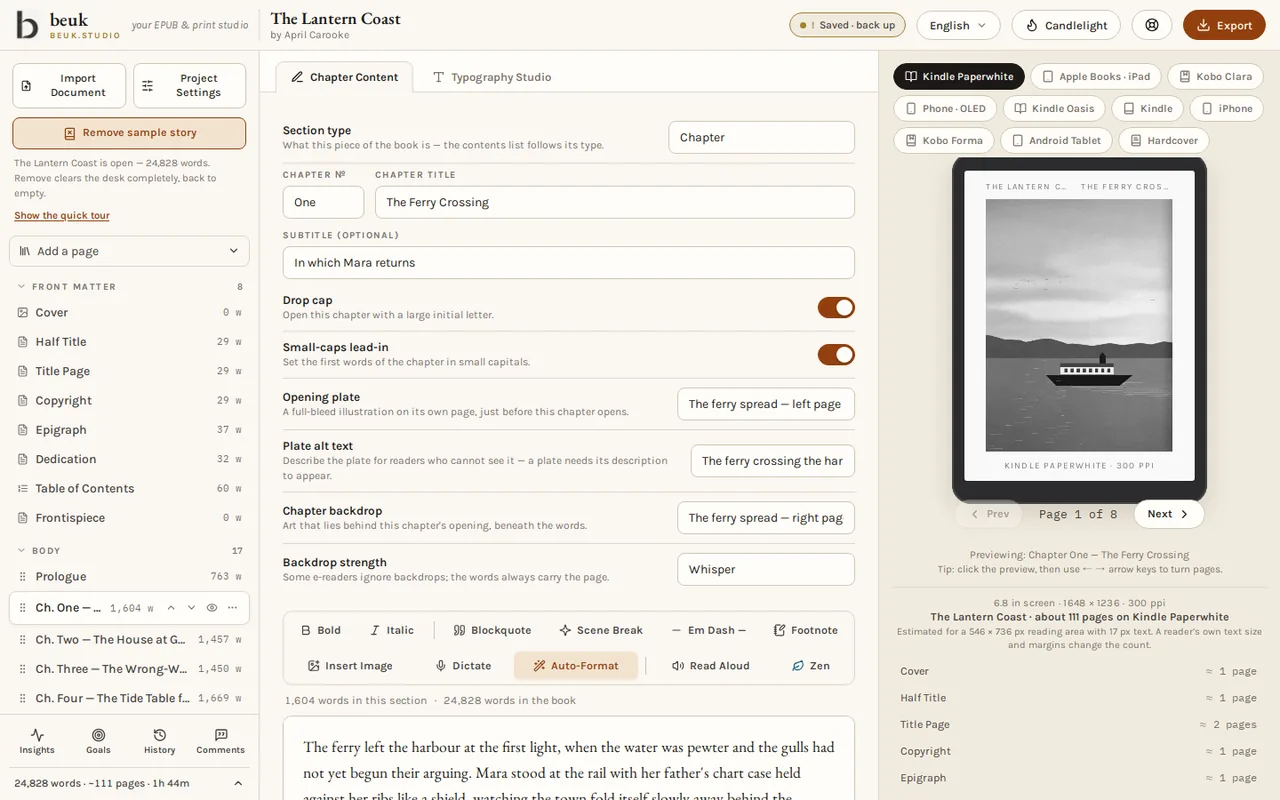
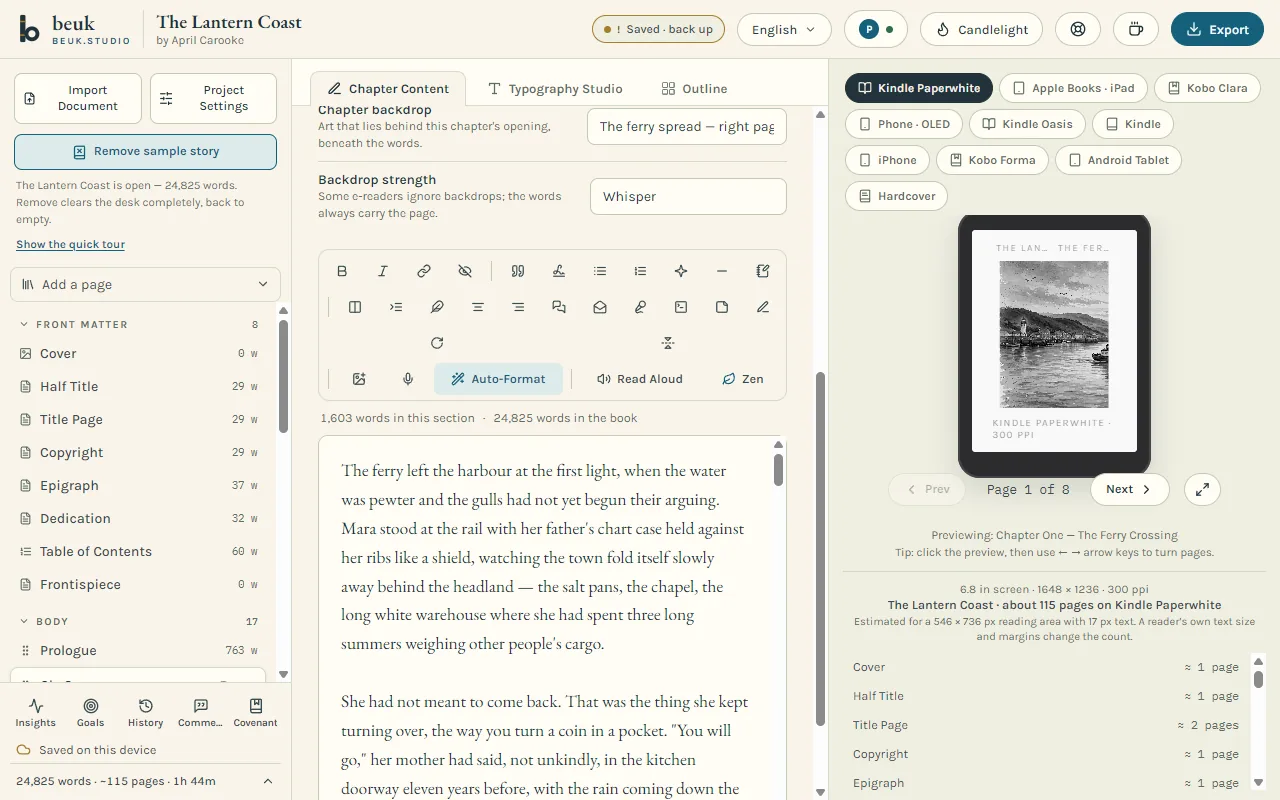
Features page: nine screenshots retaken from today's studio, no picture shown twice
All nine shots were from 10/26, before the sea-blue palette. The desk and Typography shots showed the same ferry plate, and Cover Maker and Print Wrap the same cover. Now Typography shows Romance & Flourish on Chapter Two on a Kobo Clara, Print Interior shows Chapter Four facing a full-bleed plate, and Cover Maker tries Ornate Framed over another of the book's paintings while the wrap keeps the book's own cover. Goals shows a real target and deadline; History shows a real named snapshot with two changed chapters (edits restored afterwards). Alt text, captions and dimensions follow each picture.

Claude-Session: https://claude.ai/code/session_01GatpgiJAQBRypKt53L8sGL

diff --git a/client/site/features.html b/client/site/features.html
@@ -79,9 +79,9 @@
           </div>
           <figure class="shot">
             <div class="shot-frame"><div class="shot-bar"><i></i><i></i><i></i><span>beuk.studio/studio</span></div>
-              <img src="/site/shots/desk.webp" width="1280" height="800" loading="lazy" decoding="async" alt="The Beuk studio: a chapter list on the left, the chapter The Ferry Crossing open for writing in the middle with its drop cap and small-caps switches, and on the right a Kindle Paperwhite preview of the same chapter with a choice of other devices above it." />
+              <img src="/site/shots/desk.webp" width="1280" height="800" loading="lazy" decoding="async" alt="The Beuk studio: a chapter list on the left, the opening paragraphs of Chapter One, The Ferry Crossing, in the writing pane in the middle under the formatting toolbar, and on the right a Kindle Paperwhite preview showing the chapter's ferry plate, with a choice of other devices above it." />
             </div>
-            <figcaption>The desk with the sample novella open, previewed on a Kindle Paperwhite.</figcaption>
+            <figcaption>Chapter One of the sample novella on the desk, previewed on a Kindle Paperwhite.</figcaption>
           </figure>
         </section>
 
@@ -95,9 +95,9 @@
           </div>
           <figure class="shot">
             <div class="shot-frame"><div class="shot-bar"><i></i><i></i><i></i><span>beuk.studio/studio · Typography Studio</span></div>
-              <img src="/site/shots/typography.webp" width="1280" height="800" loading="lazy" decoding="async" alt="The Typography Studio tab: theme cards named Classic Literary, Modern Minimalist, Romance and Flourish, Noir and Thriller, Epic Fantasy and Gothic and Horror, each with a sample line set in its own fonts." />
+              <img src="/site/shots/typography.webp" width="1280" height="800" loading="lazy" decoding="async" alt="The Typography Studio tab with the Romance and Flourish theme chosen among cards for Classic Literary, Modern Minimalist, Noir and Thriller, Epic Fantasy and Gothic and Horror, each with a sample line set in its own fonts; on the right a Kobo Clara preview of Chapter Two, The House at Gull Terrace, opening in the chosen theme with a framed title and a drop cap." />
             </div>
-            <figcaption>Theme presets, each shown in its own type.</figcaption>
+            <figcaption>Romance &amp; Flourish chosen, and Chapter Two already set in it on a Kobo Clara.</figcaption>
           </figure>
         </section>
 
@@ -111,9 +111,9 @@
           </div>
           <figure class="shot">
             <div class="shot-frame"><div class="shot-bar"><i></i><i></i><i></i><span>Print Interior View</span></div>
-              <img src="/site/shots/print-interior.webp" width="1200" height="853" loading="lazy" decoding="async" alt="Print Interior View of a 6 by 9 inch book: a two-page spread with Chapter One, The Ferry Crossing, opening on the left with a drop cap, and a full-page map with its caption on the right. Margin guides are drawn in blue." />
+              <img src="/site/shots/print-interior.webp" width="1234" height="878" loading="lazy" decoding="async" alt="Print Interior View of a 6 by 9 inch book: a two-page spread with a full-bleed painting of the harbourmaster at her desk of ledgers on the left, and Chapter Four, The Tide Table for Next Year, opening on the right with a drop cap and small capitals. Margin guides are drawn over the text." />
             </div>
-            <figcaption>Pages 16 and 17 of the sample at 6 × 9 in, guides on.</figcaption>
+            <figcaption>Pages 36 and 37 of the sample at 6 × 9 in: a full-bleed plate facing its chapter, guides on.</figcaption>
           </figure>
         </section>
 
@@ -128,15 +128,15 @@
           <div class="pair">
             <figure class="shot">
               <div class="shot-frame"><div class="shot-bar"><i></i><i></i><i></i><span>Cover Maker</span></div>
-                <img src="/site/shots/cover-maker.webp" width="962" height="838" loading="lazy" decoding="async" alt="The Cover Maker: the cover of The Lantern Coast by April Carooke, a lighthouse and sailing boats on a grey sea, beside fields for title, subtitle, author and tagline, background choices and a grid of artwork." />
+                <img src="/site/shots/cover-maker.webp" width="962" height="842" loading="lazy" decoding="async" alt="The Cover Maker trying another front for The Lantern Coast: the Ornate Framed layout over a painting of a lit lighthouse at night with a rowing boat, beside fields for title, subtitle, author and tagline, background choices and a grid of the book's own artwork." />
               </div>
-              <figcaption>The front cover.</figcaption>
+              <figcaption>Trying another front: Ornate Framed over one of the book's own paintings.</figcaption>
             </figure>
             <figure class="shot">
               <div class="shot-frame"><div class="shot-bar"><i></i><i></i><i></i><span>Print Wrap</span></div>
-                <img src="/site/shots/print-wrap.webp" width="962" height="838" loading="lazy" decoding="async" alt="The print wrap: back cover with blurb, author and a barcode area, a narrow spine, and the front cover, with bleed, trim and spine-fold guides. The readout says spine 0.25 inches, full wrap 12.50 by 9.25 inches." />
+                <img src="/site/shots/print-wrap.webp" width="962" height="842" loading="lazy" decoding="async" alt="The print wrap: back cover with blurb, author and a barcode area, a narrow spine, and the front cover, with bleed, trim and spine-fold guides. The readout says spine 0.25 inches, full wrap 12.50 by 9.25 inches." />
               </div>
-              <figcaption>The full wrap, with bleed and trim marked.</figcaption>
+              <figcaption>The book's own cover as a full wrap, with bleed and trim marked.</figcaption>
             </figure>
           </div>
         </section>
@@ -152,7 +152,7 @@
           </div>
           <figure class="shot narrow">
             <div class="shot-frame"><div class="shot-bar"><i></i><i></i><i></i><span>Export</span></div>
-              <img src="/site/shots/export.webp" width="602" height="838" loading="lazy" decoding="async" alt="The Export dialog: a Store-ready? check for KDP and IngramSpark at the top, then EPUB 3.2 platform presets as a grid of buttons, from Generic EPUB and Amazon KDP to Scribd and Google Play, and the start of the EPUB's file list." />
+              <img src="/site/shots/export.webp" width="602" height="842" loading="lazy" decoding="async" alt="The Export dialog: a Store-ready? check for KDP and IngramSpark at the top, then EPUB 3.2 platform presets as a grid of buttons, from Generic EPUB and Amazon KDP to Scribd and Google Play, and the start of the EPUB's file list." />
             </div>
             <figcaption>The export dialog and its store presets.</figcaption>
           </figure>
@@ -168,7 +168,7 @@
           </div>
           <figure class="shot">
             <div class="shot-frame"><div class="shot-bar"><i></i><i></i><i></i><span>Story Insights</span></div>
-              <img src="/site/shots/insights.webp" width="962" height="838" loading="lazy" decoding="async" alt="Story Insights for the sample: 24,828 words, 15 chapters, 1 hour 44 minutes of reading, about 111 pages on a Kindle Paperwhite, sentences of 19.4 words on average, 24 percent dialogue; a list of the most-used words, and a bar chart of chapter lengths." />
+              <img src="/site/shots/insights.webp" width="962" height="842" loading="lazy" decoding="async" alt="Story Insights for the sample: 24,825 words, 15 chapters, 1 hour 44 minutes of reading, about 138 pages on a Kobo Clara, sentences of 19.4 words on average, 24 percent dialogue; a list of the most-used words, and a bar chart of chapter lengths." />
             </div>
             <figcaption>Story Insights for the sample novella.</figcaption>
           </figure>
@@ -184,9 +184,9 @@
           </div>
           <figure class="shot">
             <div class="shot-frame"><div class="shot-bar"><i></i><i></i><i></i><span>Goals</span></div>
-              <img src="/site/shots/goals.webp" width="962" height="480" loading="lazy" decoding="async" alt="The habit calendar for October 2026, with words added on the 25th and the 26th marked in gold." />
+              <img src="/site/shots/goals.webp" width="962" height="319" loading="lazy" decoding="async" alt="Goals for the sample: a project target of 60,000 words with 24,825 written and a bar a little under halfway, a deadline of March 31, 2027 with 154 days left, the line 229 words a day from here will land it, and On pace with the straight line from Oct 28, 2026." />
             </div>
-            <figcaption>The habit calendar. The road so far is not pictured: this device had only one day of the sample's length logged, and the studio draws nothing it has not seen.</figcaption>
+            <figcaption>A book target and a deadline, and the daily pace that meets them. The habit calendar and the road so far are not pictured: this device had no writing days logged yet, and the studio draws nothing it has not seen.</figcaption>
           </figure>
         </section>
 
@@ -200,7 +200,7 @@
           </div>
           <figure class="shot">
             <div class="shot-frame"><div class="shot-bar"><i></i><i></i><i></i><span>History</span></div>
-              <img src="/site/shots/history.webp" width="962" height="838" loading="lazy" decoding="async" alt="A History snapshot called Before the sample story, from 992 words and 15 sections, with a Restore the whole book button and a Since this snapshot list of every section added since, each with its word count and a small bar." />
+              <img src="/site/shots/history.webp" width="962" height="842" loading="lazy" decoding="async" alt="A History snapshot called Before the ledger rewrite, 24,825 words and 29 sections, with a Restore the whole book button and a Since this snapshot list of the two chapters changed since: Five, The Harbourmaster's Ledger, plus 31 words, and Nine, Harrow and Venn, minus 9 words; below, every section with Read and Restore." />
             </div>
             <figcaption>One snapshot, compared with the book as it stands now.</figcaption>
           </figure>
